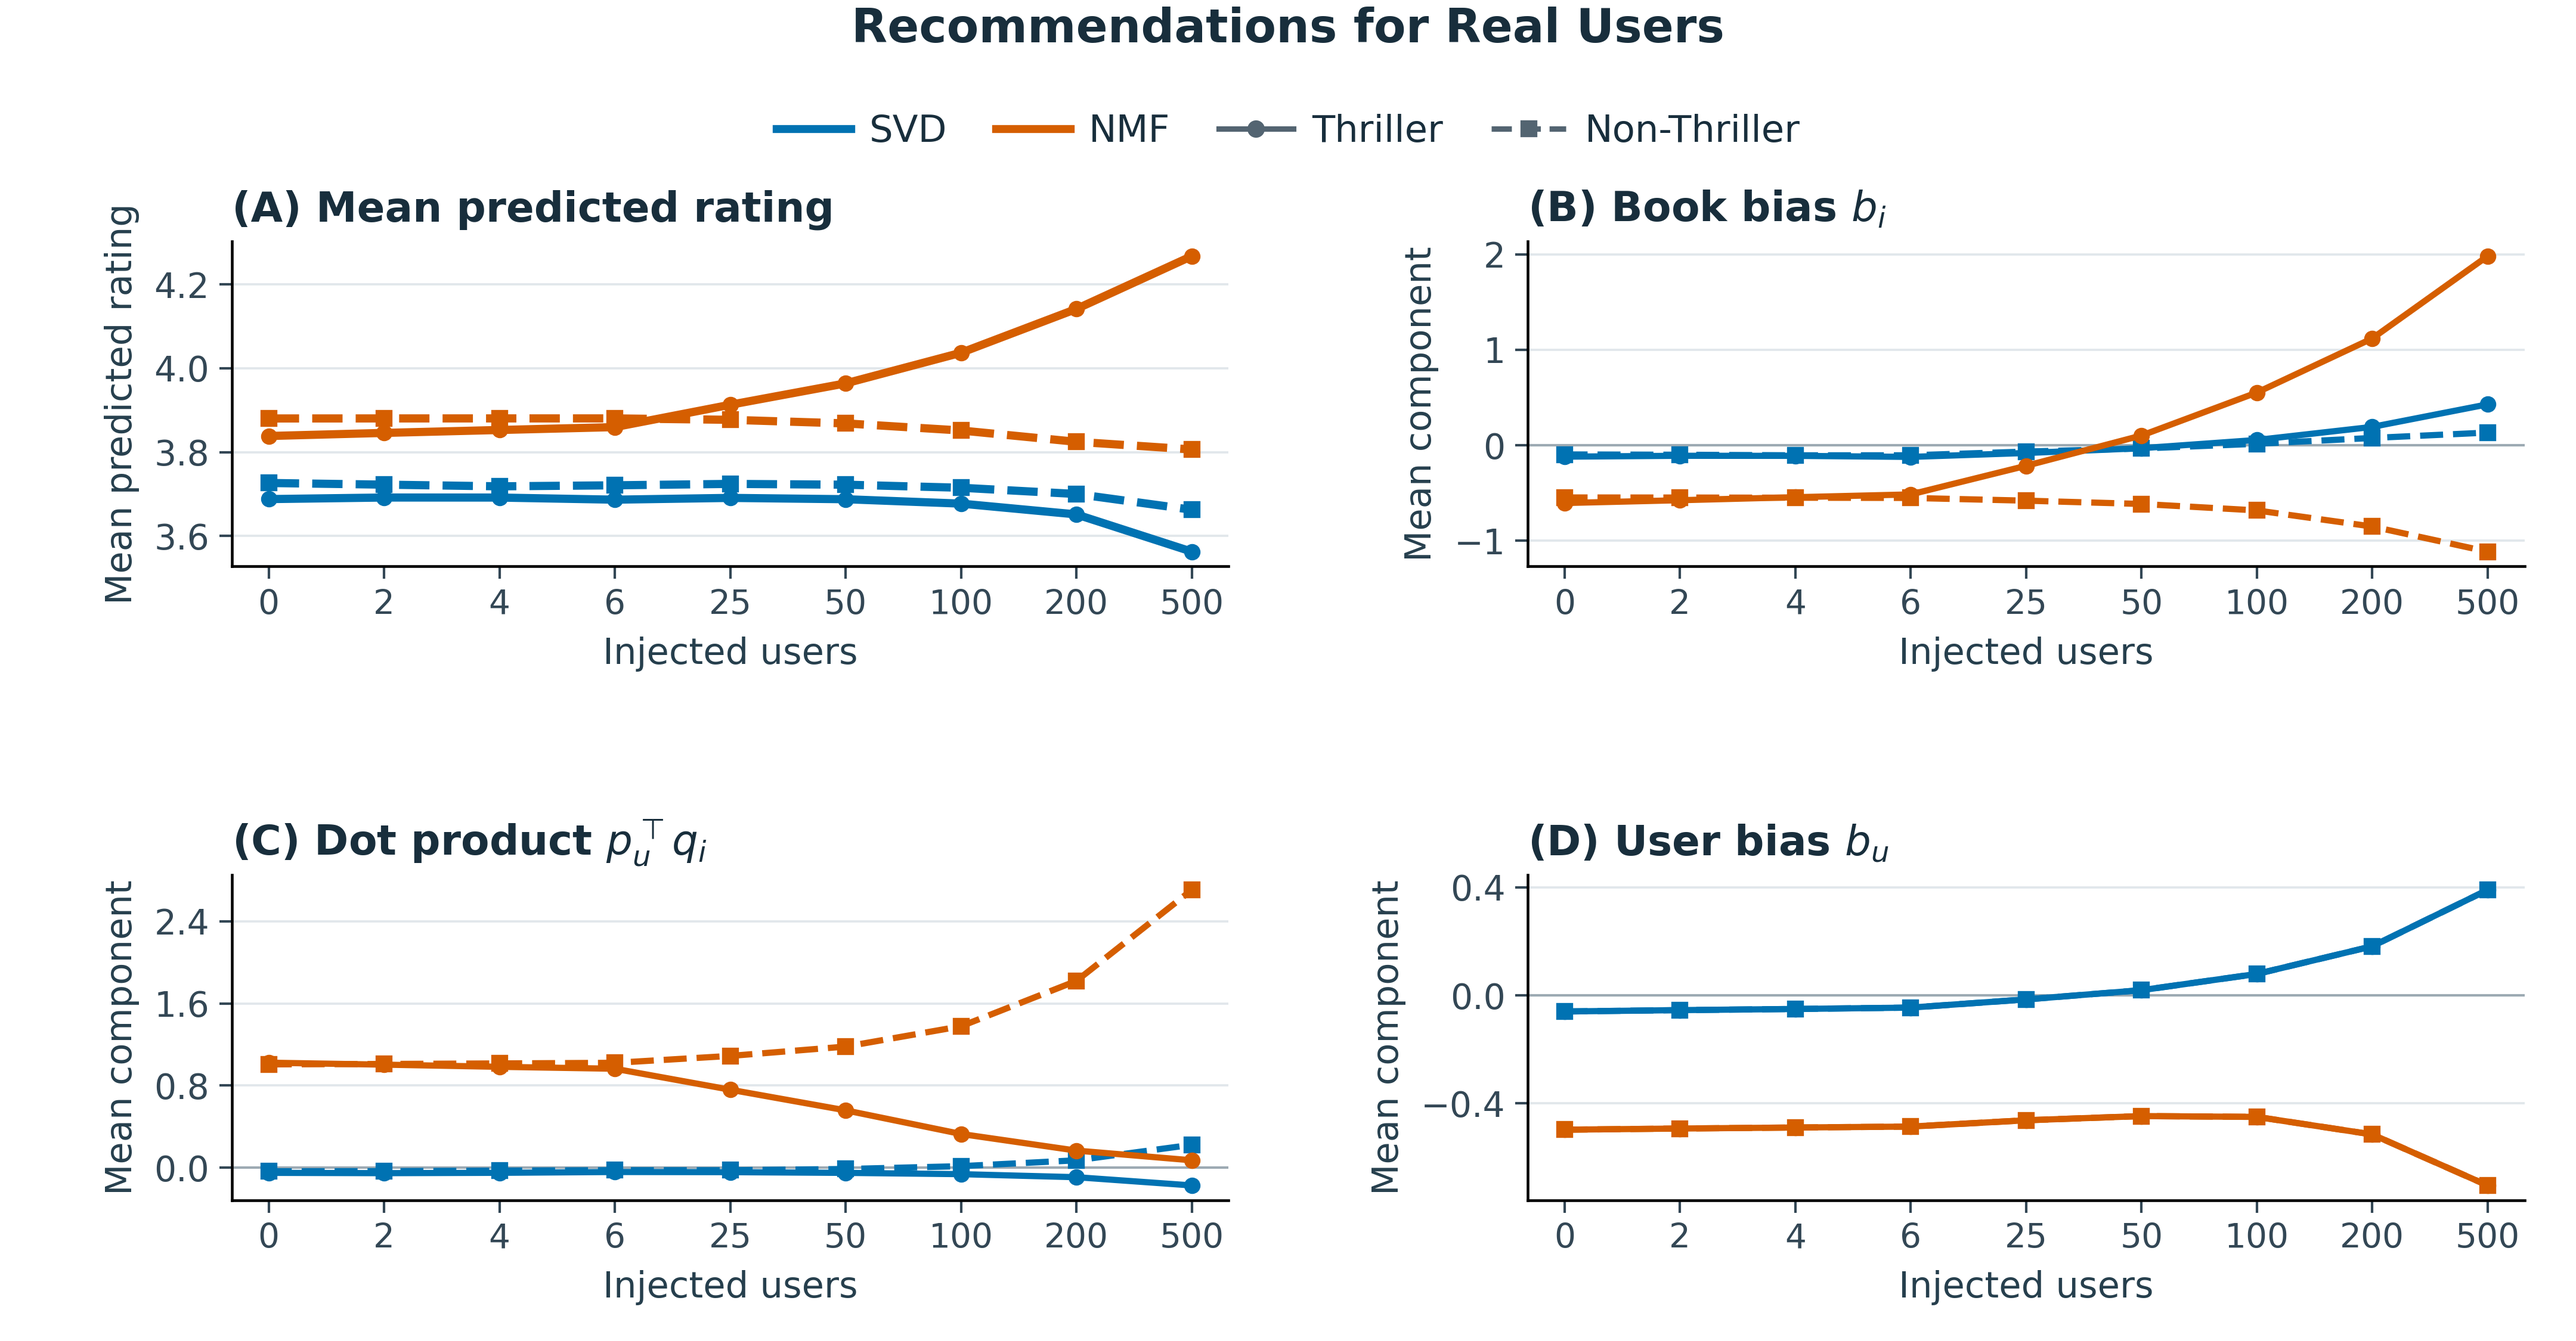
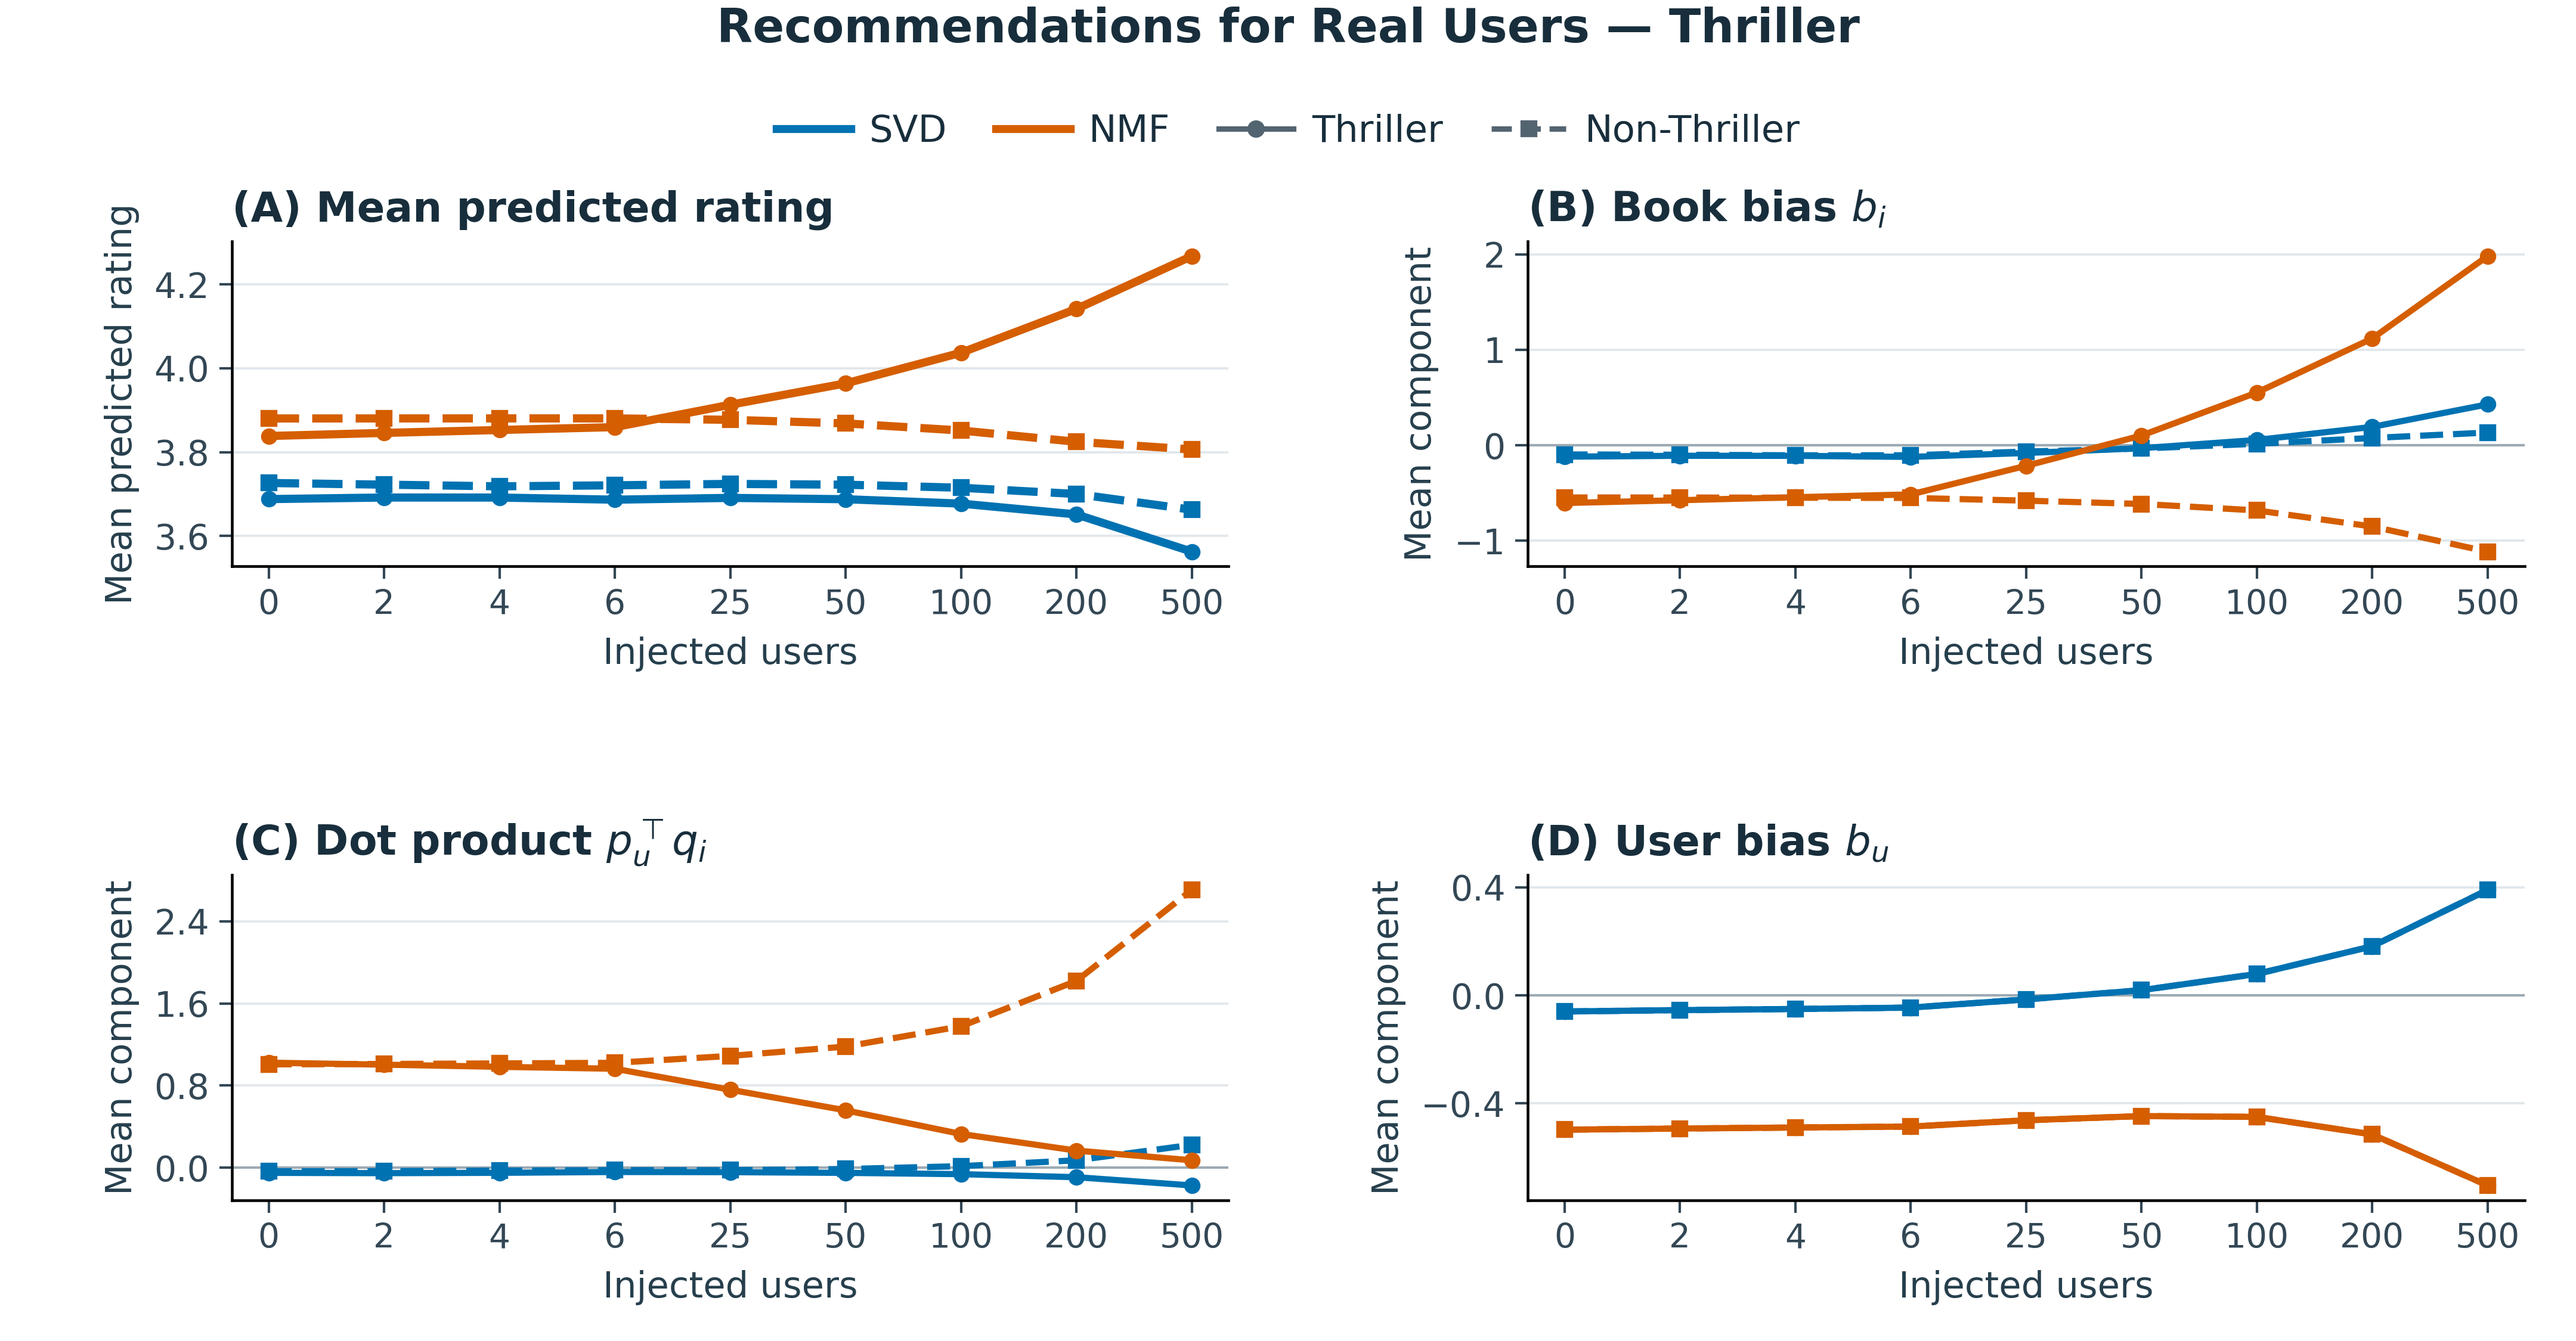
Match Thriller figure titles to other genres

Changed region(s): [[0.2812, 0.0, 0.7188, 0.0311]]

diff --git a/First_paper_material/notebook/build_thriller_compact_paper_figures.py b/First_paper_material/notebook/build_thriller_compact_paper_figures.py
@@ -26,7 +26,7 @@ for view,name in [
  ns=([2,4,6,25,50,100,200,500] if view=='synthetic_training' else [0,2,4,6,25,50,100,200,500])
  x=np.arange(len(ns));f=source[(source.genre=='Thriller')&(source.view==view)]
  fig=plt.figure(figsize=(7.2,3.75))
- figure_title={'all_training':'Training Fit: All Users','synthetic_training':'Training Fit: Synthetic Users','real_unseen_prediction':'Recommendations for Real Users'}[view]
+ figure_title={'all_training':'Training Fit: All Users — Thriller','synthetic_training':'Training Fit: Synthetic Users — Thriller','real_unseen_prediction':'Recommendations for Real Users — Thriller'}[view]
  fig.suptitle(figure_title,fontsize=9.4,fontweight='bold',color='#182E3C',y=.995)
  if view=='real_unseen_prediction':
   grid=fig.add_gridspec(2,2)
